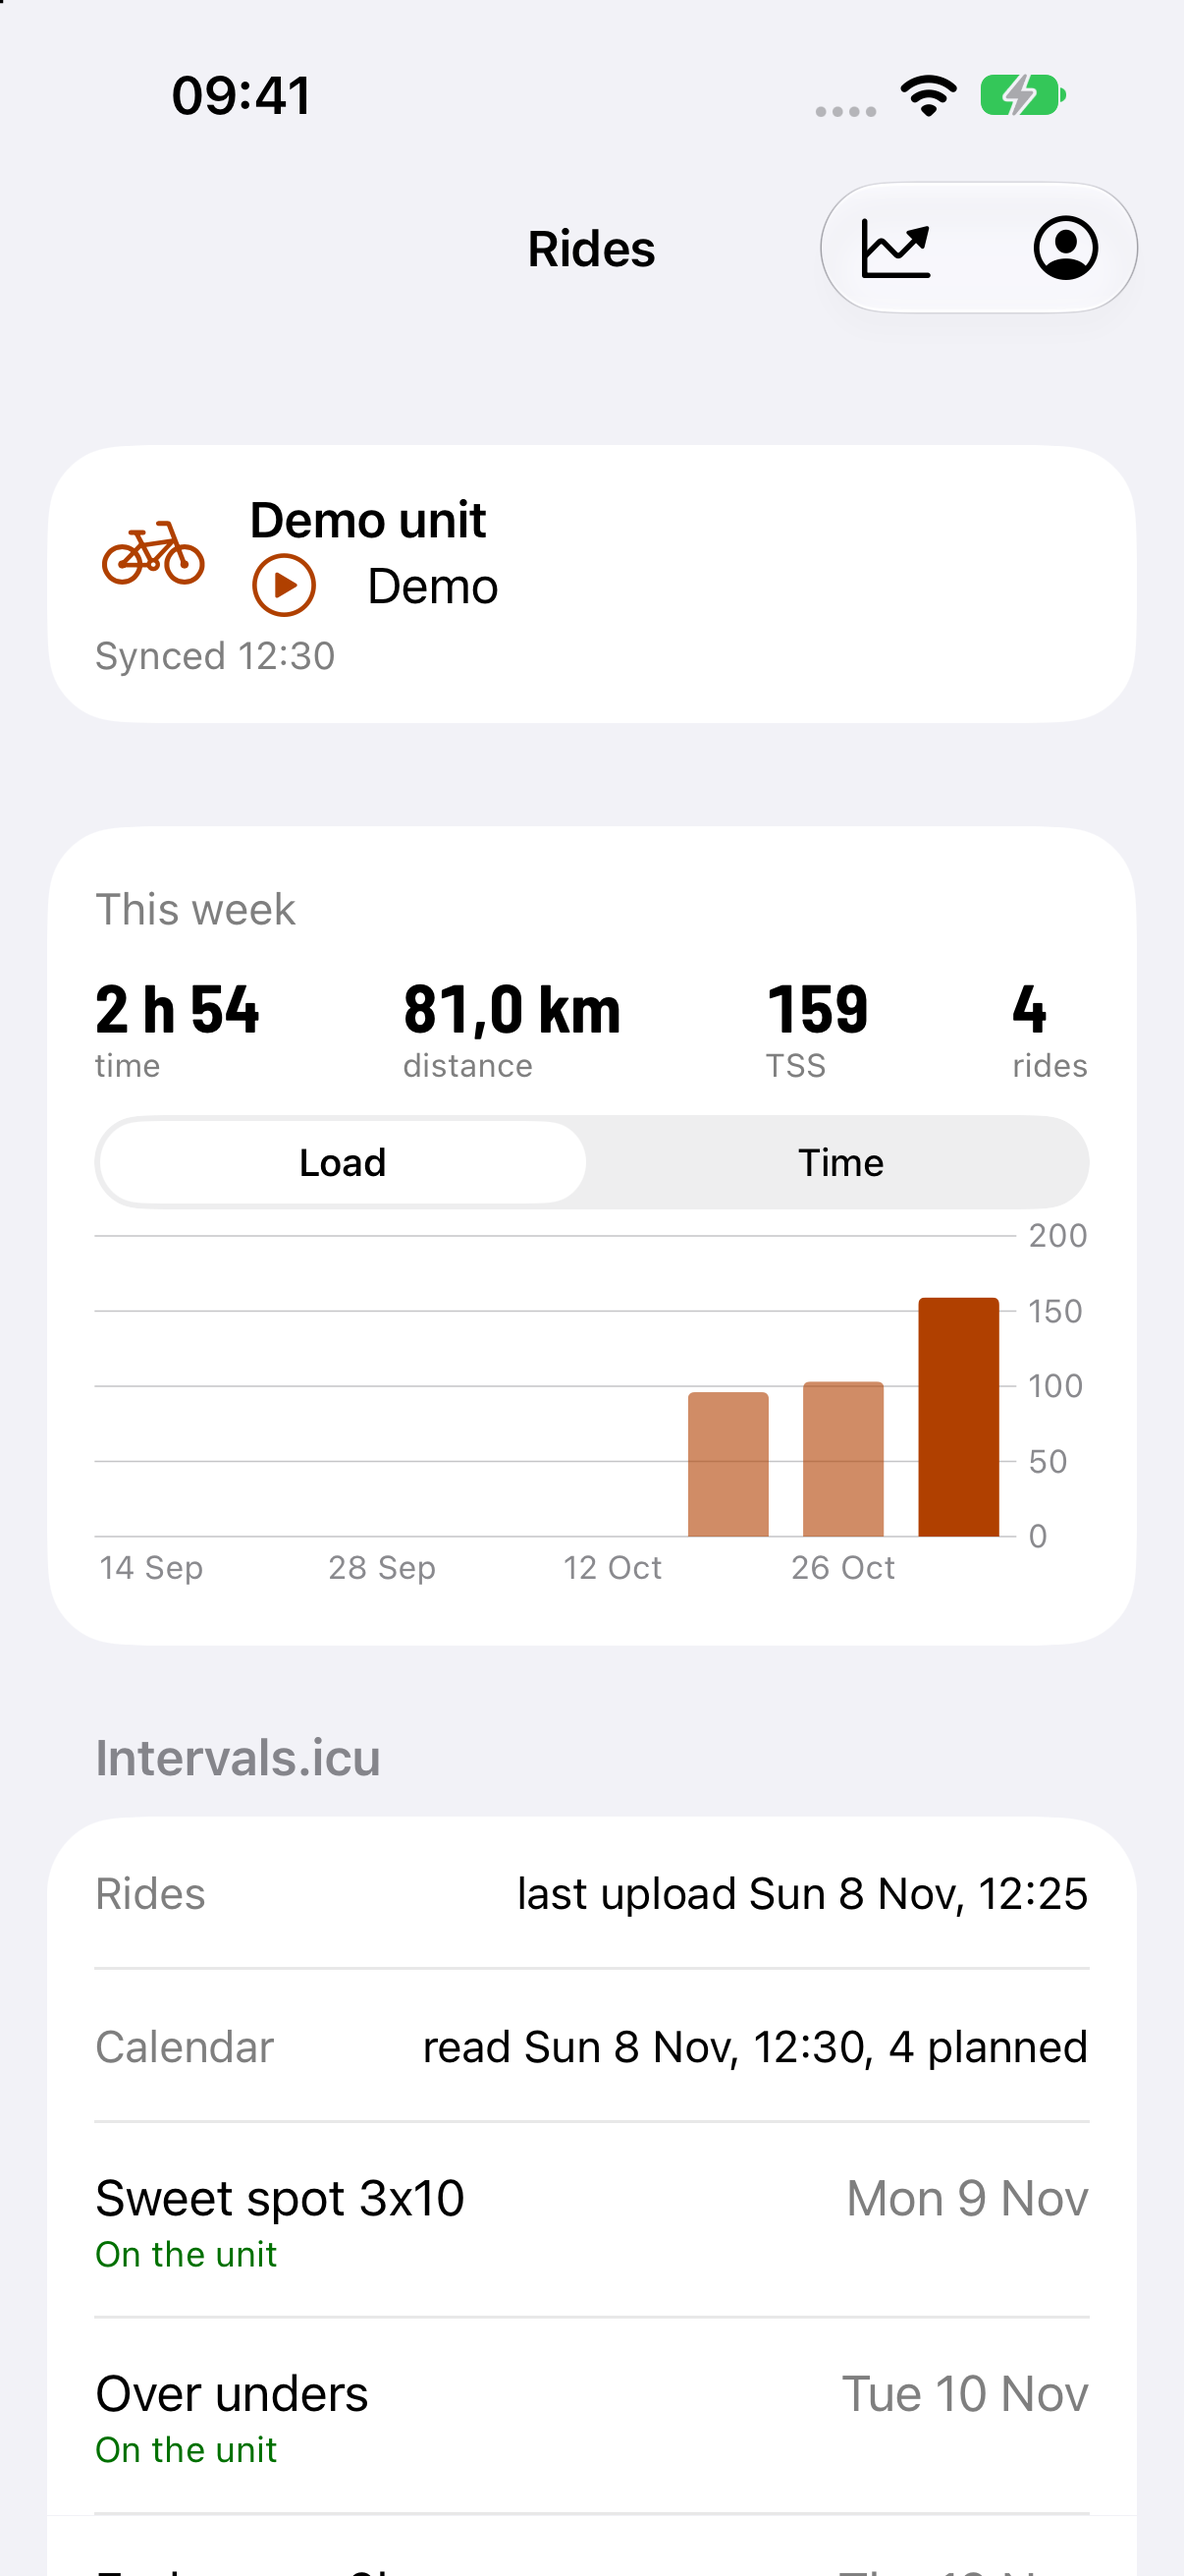
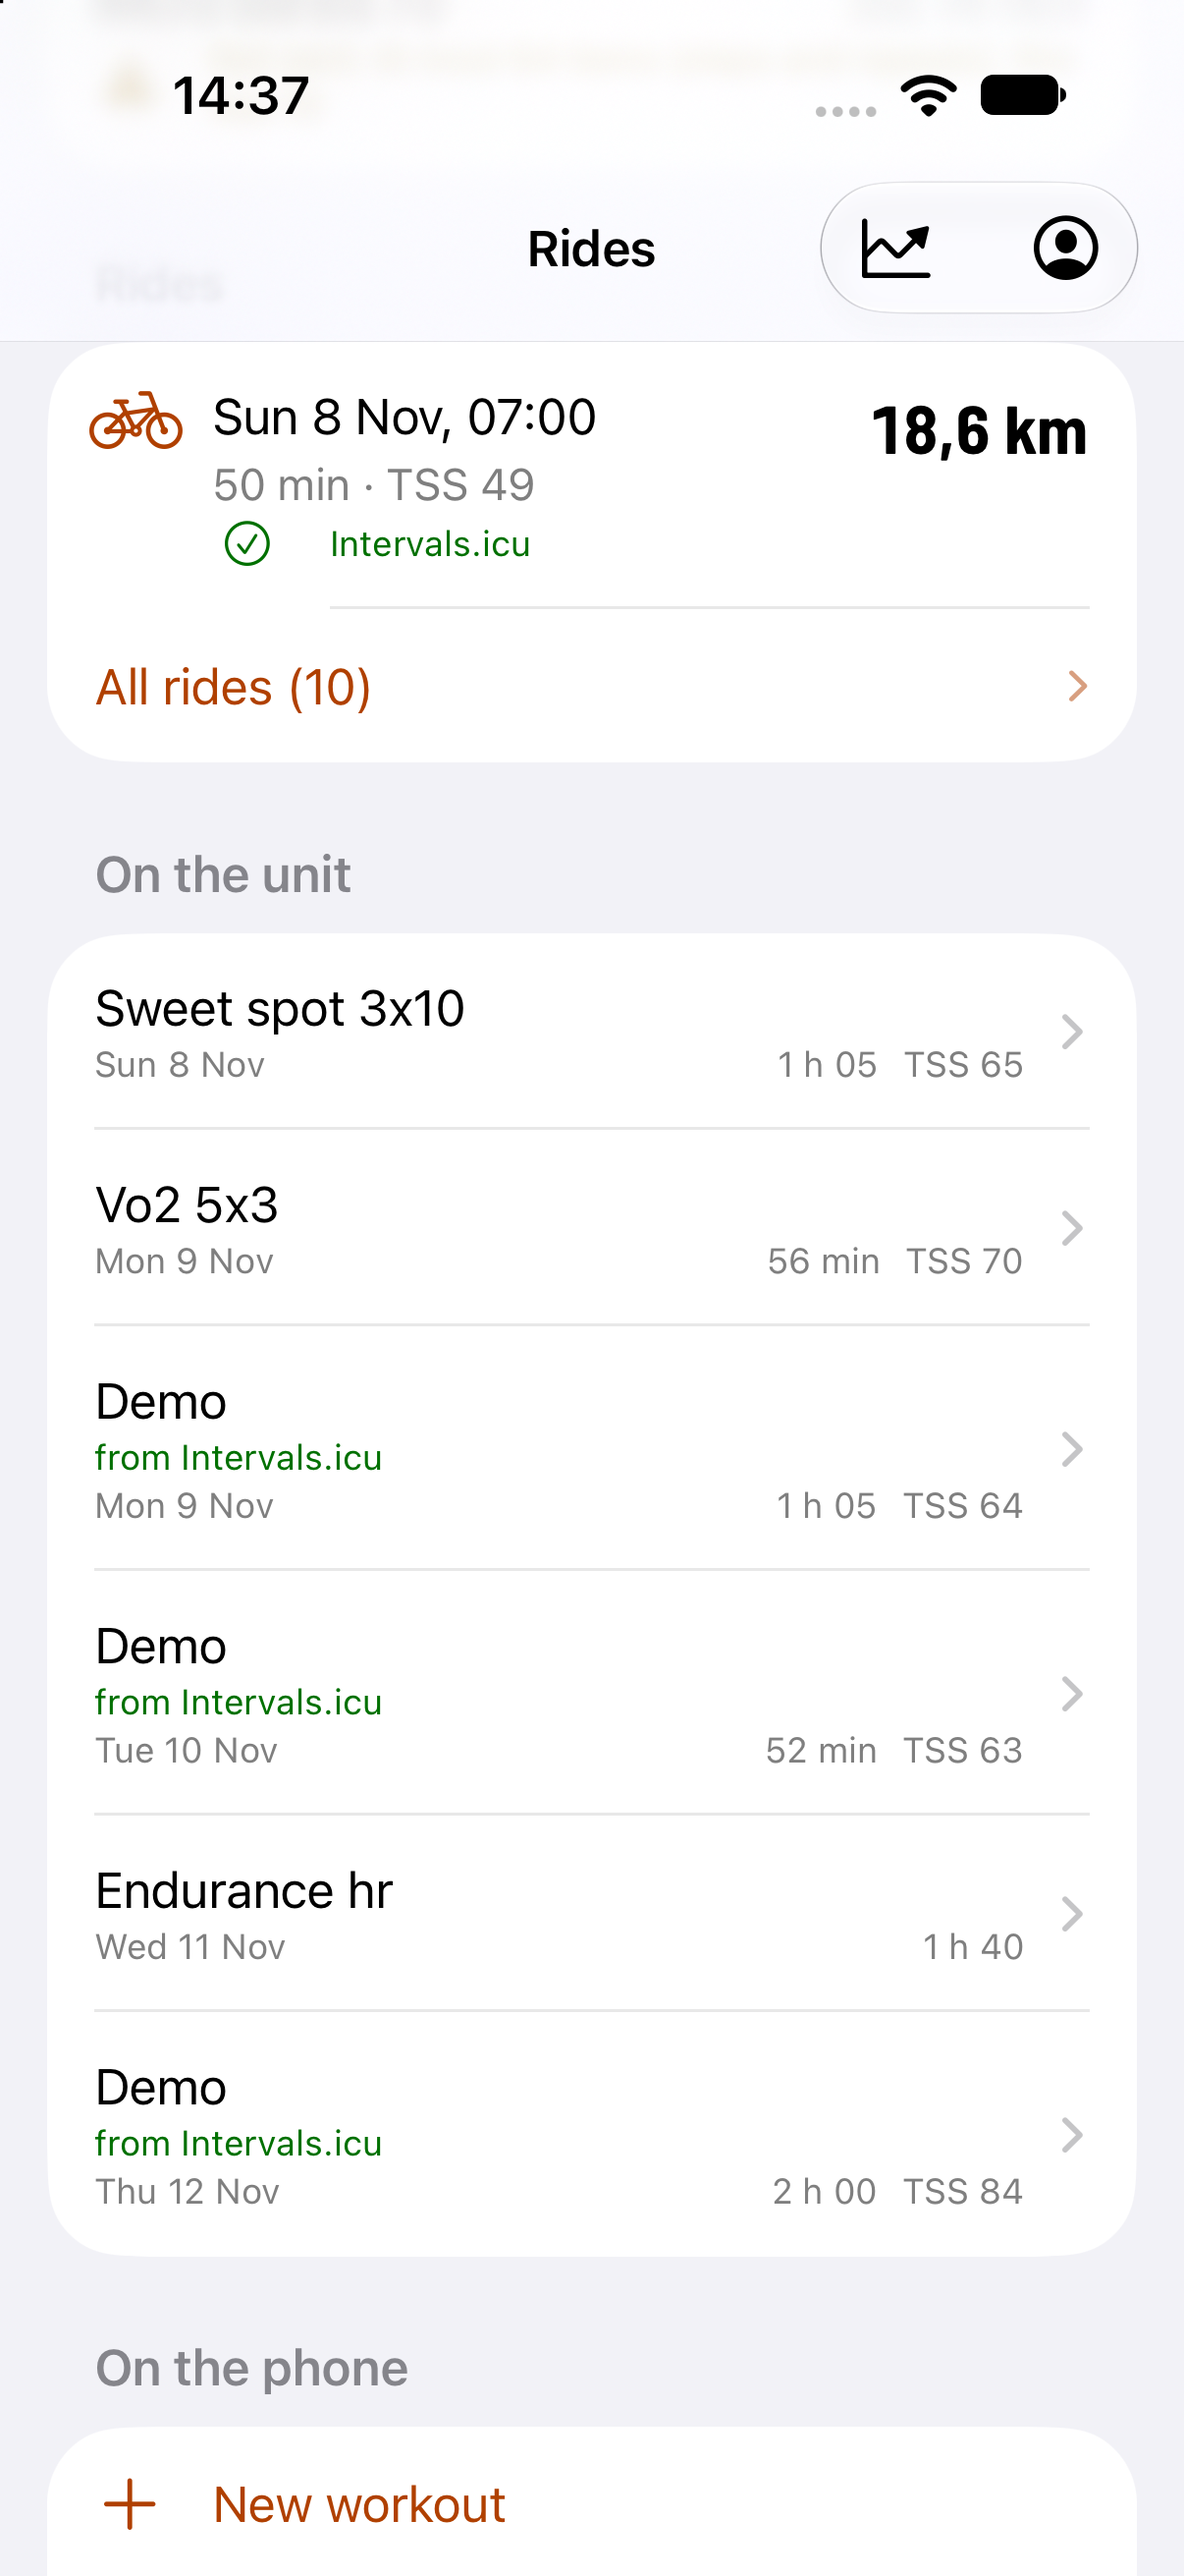
iOS: home lists the latest ride; All rides opens the full list
The home screen's Rides section shows only the latest ride's row (same row, same download and sync state) and an
"All rides (N)" row that pushes the full list in a List. Both use one RideRows view. The sync line stays on the
home header. -demo-all-rides pushes the full list for the screenshots. Screenshots: docs/img/app-home.png and
app-rides.png (the full list), from a temporary iPhone 18 Pro simulator (created, used, deleted).

Claude-Session: https://claude.ai/code/session_01DQqFVzMBw6Vk4HjDjRrrTH

diff --git a/app/ios/App/ContentView.swift b/app/ios/App/ContentView.swift
@@ -16,6 +16,7 @@ struct ContentView: View {
     @StateObject private var loop = IntervalsLoop()
     @State private var profile = false
     @State private var fitness = false
+    @State private var allRides = false
     @StateObject private var store = WorkoutStore()
     @State private var path = NavigationPath()
     @StateObject private var routes = RouteStore()
@@ -105,6 +106,7 @@ struct ContentView: View {
             .navigationDestination(item: $rides.saved) { s in RideDetail(url: s.url) }
             .sheet(isPresented: $profile) { ProfileSheet() }
             .navigationDestination(isPresented: $fitness) { FitnessView(library: library) }
+            .navigationDestination(isPresented: $allRides) { AllRidesList(rides: rides, library: library, loop: loop) }
             .toolbar {
                 Button { fitness = true } label: { Image(systemName: "chart.line.uptrend.xyaxis") }
                     .accessibilityLabel("Fitness")
@@ -147,6 +149,7 @@ struct ContentView: View {
                 }
                 if args.contains("-demo-scroll-intervals") { later(3) { scrollTo = "intervals" } }
                 if args.contains("-demo-scroll-rides") { later(3) { scrollTo = "rides" } }
+                if args.contains("-demo-all-rides") { later(3) { allRides = true } }  // the full list, pushed
                 if args.contains("-demo-scroll-unit") { later(3) { scrollTo = "unit" } }
                 if args.contains("-demo-fitness") {
                     DispatchQueue.main.asyncAfter(deadline: .now() + 1.5) { fitness = true }
@@ -171,16 +174,19 @@ struct ContentView: View {
 
     @ViewBuilder private var ridesSection: some View {
         Section {
-            ForEach(rides.rides, id: \.name) { r in
-                RideRow(
-                    rides: rides, ride: r, brief: library.briefs[r.name],
-                    downloaded: rides.downloaded.contains(r.name), uploaded: loop.uploaded[r.name] != nil,
-                    active: rides.phase == .downloading(r.name),
-                    locked: rides.phase == .listing || (rides.isDownloading && rides.phase != .downloading(r.name))
-                ).equatable()
-            }
+            RideRows(rides: rides, library: library, loop: loop, list: Array(rides.rides.prefix(1)))  // the latest only
             if rides.rides.isEmpty && rides.phase == .idle {
                 EmptyRides(state: link.state, demo: rides.demo) { link.refresh(); rides.refresh() }
+            }
+            if !rides.rides.isEmpty {
+                Button { allRides = true } label: {
+                    HStack {
+                        Text("All rides (\(rides.rides.count))")
+                        Spacer()
+                        Image(systemName: "chevron.right").font(.caption.weight(.semibold)).foregroundStyle(.secondary)
+                    }
+                }
+                .foregroundStyle(Tok.accent)
             }
         } header: {
             HStack {
@@ -265,6 +271,38 @@ struct UnitHeader: View {
 
     private static func symbol(_ p: UInt8) -> String {
         p >= 88 ? "battery.100" : p >= 63 ? "battery.75" : p >= 38 ? "battery.50" : p >= 13 ? "battery.25" : "battery.0"
+    }
+}
+
+/// The rides of a list, one row each: the home screen's latest ride, or every ride on the full list.
+struct RideRows: View {
+    @ObservedObject var rides: RideBrowser
+    @ObservedObject var library: RideLibrary
+    @ObservedObject var loop: IntervalsLoop
+    let list: [RideEntry]
+
+    var body: some View {
+        ForEach(list, id: \.name) { r in
+            RideRow(
+                rides: rides, ride: r, brief: library.briefs[r.name],
+                downloaded: rides.downloaded.contains(r.name), uploaded: loop.uploaded[r.name] != nil,
+                active: rides.phase == .downloading(r.name),
+                locked: rides.phase == .listing || (rides.isDownloading && rides.phase != .downloading(r.name))
+            ).equatable()
+        }
+    }
+}
+
+/// The full ride list, pushed from the home screen's "All rides" row.
+struct AllRidesList: View {
+    @ObservedObject var rides: RideBrowser
+    @ObservedObject var library: RideLibrary
+    @ObservedObject var loop: IntervalsLoop
+
+    var body: some View {
+        List { RideRows(rides: rides, library: library, loop: loop, list: rides.rides) }
+            .navigationTitle("All rides")
+            .navigationBarTitleDisplayMode(.inline)
     }
 }
 

diff --git a/docs/app.md b/docs/app.md
@@ -238,7 +238,7 @@ Debug builds read launch arguments (all with `-demo`; `xcrun simctl launch <devi
 `-demo-workout` (the first workout's page), `-demo-edit` (the editor; `-demo-saved` saves the copy, `-demo-send` opens the
 send sheet after 1.5 s, `-demo-send-go` presses Send), `-demo-profile` (the profile sheet), `-demo-delete` (the unit
 workout delete confirmation), `-demo-import` (the Files picker), `-demo-mtu 244` (the demo link's write length, 20 without it), `-demo-routes` (the demo GPX imported; `-demo-route-open` its page, `-demo-route-send` and `-demo-route-send-go` the send sheet, `-demo-route-sent` sent without it, `-demo-route-delete` the unit route delete confirmation, `-demo-scroll-routes|unitroutes`), and `-demo-scroll-rides|intervals|unit|phone` (a home
-list position). The images in `docs/img/app-*.png` are light mode shots of an iPhone 18 Pro Simulator at the default
+list position). The home list shows only the latest ride and an "All rides (N)" row, which pushes the full list (`-demo-all-rides`). The images in `docs/img/app-*.png` are light mode shots of an iPhone 18 Pro Simulator at the default
 text size.
 
 | The profile sheet | The unit workouts (delete asked) | "On the phone", import | The Files picker |
